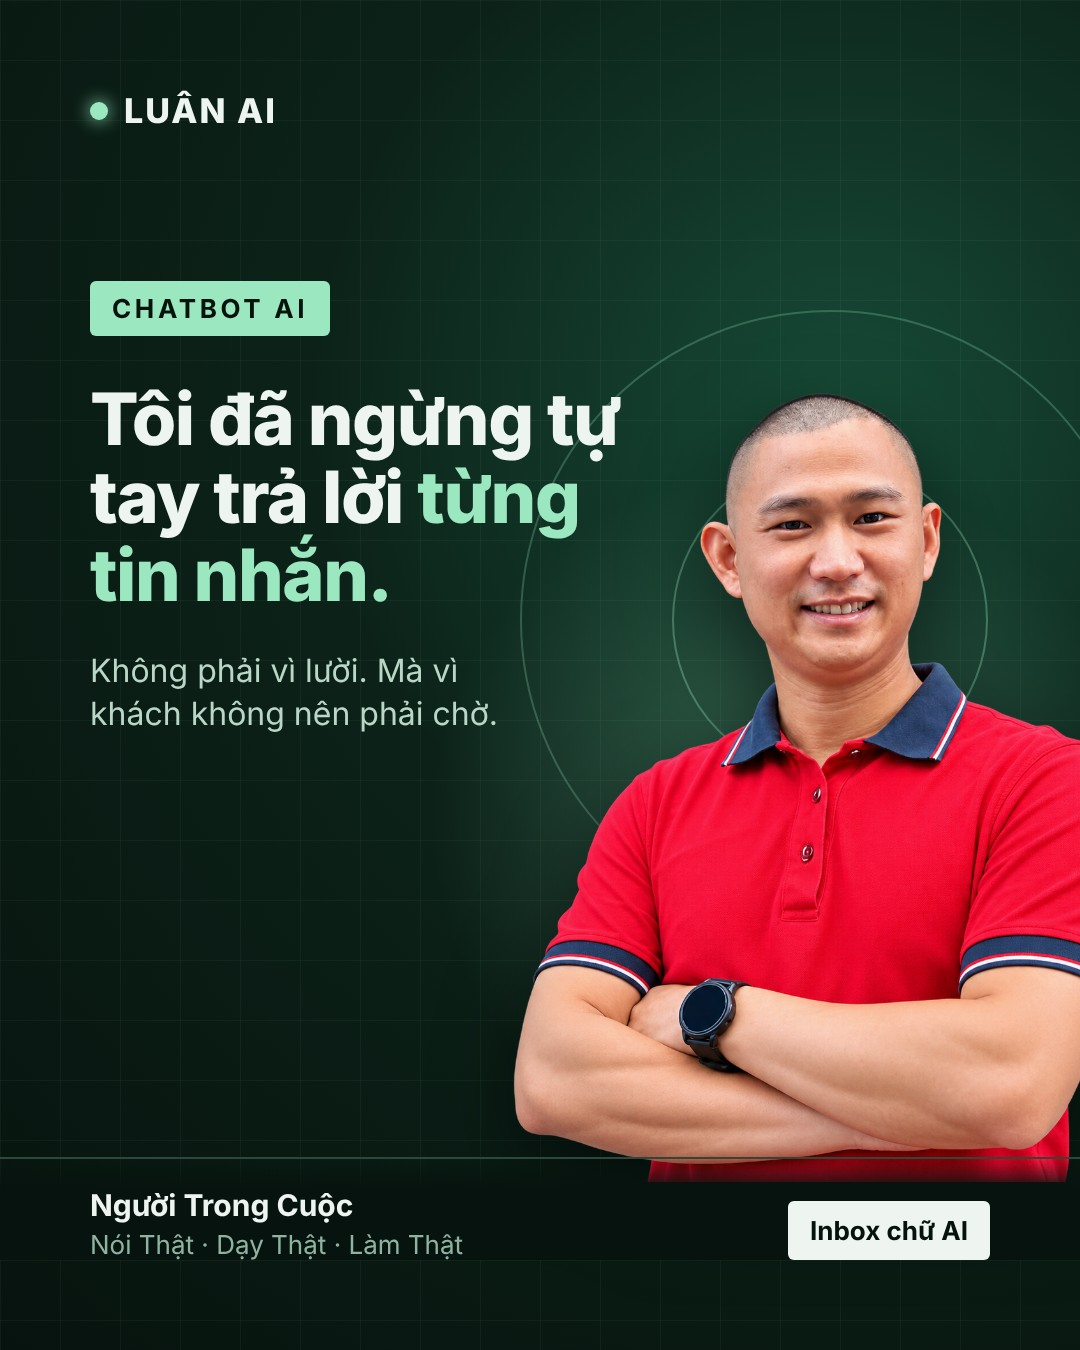
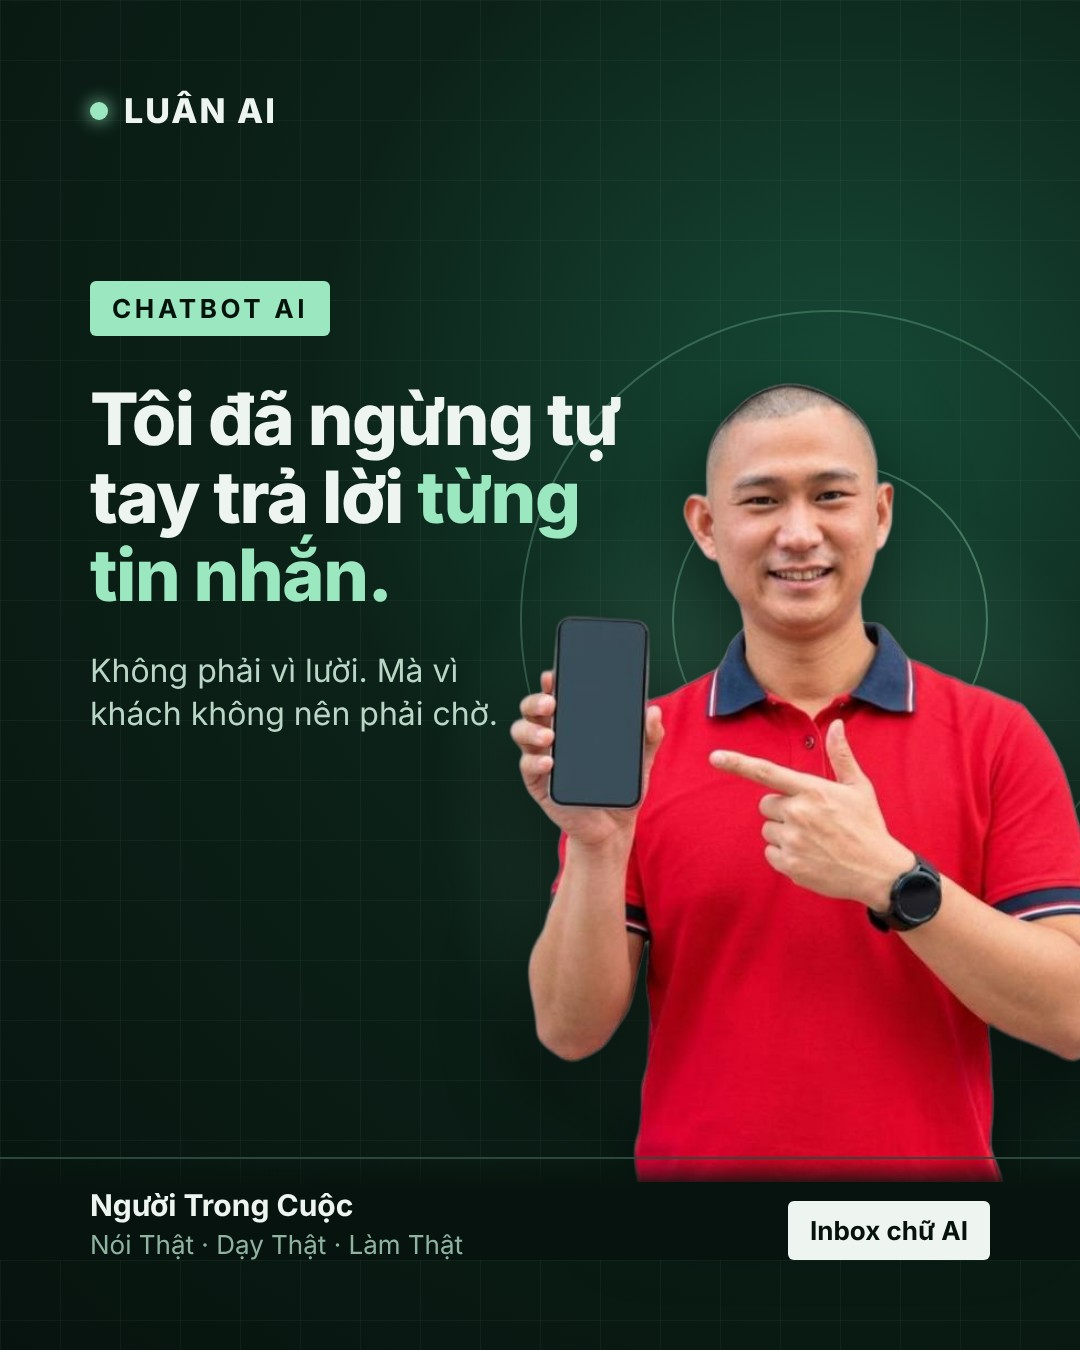
AAS L04: du 20 bieu cam (Gemini) + anh bai hom nay theo bieu cam
Claude-Session: https://claude.ai/code/session_017kgc1PsvuozpBwCxbyhjEB

Changed region(s): [[0.4583, 0.28, 1.0, 0.9022]]

diff --git a/aas/card.html b/aas/card.html
@@ -28,4 +28,4 @@ p{font-size:32px!important;max-width:450px!important}
 </style></head><body><div class="grid"></div><div class="halo"></div><div class="ring"></div><img class="me" src="luan.png"><div class="num" id="num"></div>
 <div class="wrap"><div class="brand"><i></i>LUÂN AI</div><div class="tag" id="tag"></div><h1 id="h"></h1><p id="p"></p>
 <div class="foot"><div><b>Người Trong Cuộc</b>Nói Thật · Dạy Thật · Làm Thật</div><div class="cta">Inbox chữ AI</div></div></div>
-<script>const q=new URLSearchParams(location.search.slice(1));document.getElementById('tag').textContent=q.get('t');document.getElementById('h').innerHTML=q.get('h');document.getElementById('p').textContent=q.get('p');document.getElementById('num').textContent=q.get('n')||'';if(q.get('pose')){const m=document.querySelector('.me');m.onerror=()=>{m.onerror=null;m.src='luan.png'};m.onload=()=>{if(m.naturalWidth/m.naturalHeight>0.7&&m.naturalWidth/m.naturalHeight<0.95){m.style.right='-30px';m.style.objectPosition='right bottom'}};m.src='poses/luan-'+q.get('pose')+'.png'}if(q.get('fs'))document.body.style.setProperty('--fs',q.get('fs'))</script></body></html>
+<script>const q=new URLSearchParams(location.search.slice(1));document.getElementById('tag').textContent=q.get('t');document.getElementById('h').innerHTML=q.get('h');document.getElementById('p').textContent=q.get('p');document.getElementById('num').textContent=q.get('n')||'';if(q.get('pose')){const m=document.querySelector('.me');m.onerror=()=>{m.onerror=null;m.src='luan.png'};m.onload=()=>{if(m.naturalWidth/m.naturalHeight<0.95){m.style.right='-30px';m.style.objectPosition='right bottom'}};m.src='poses/luan-'+q.get('pose')+'.png'}if(q.get('fs'))document.body.style.setProperty('--fs',q.get('fs'))</script></body></html>
